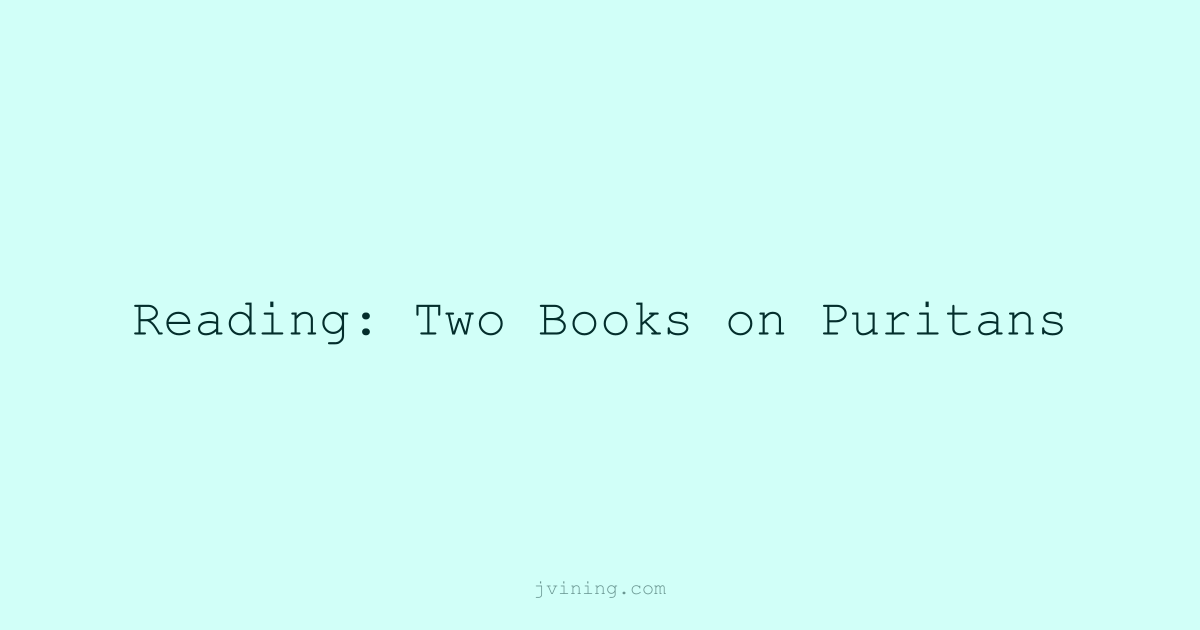
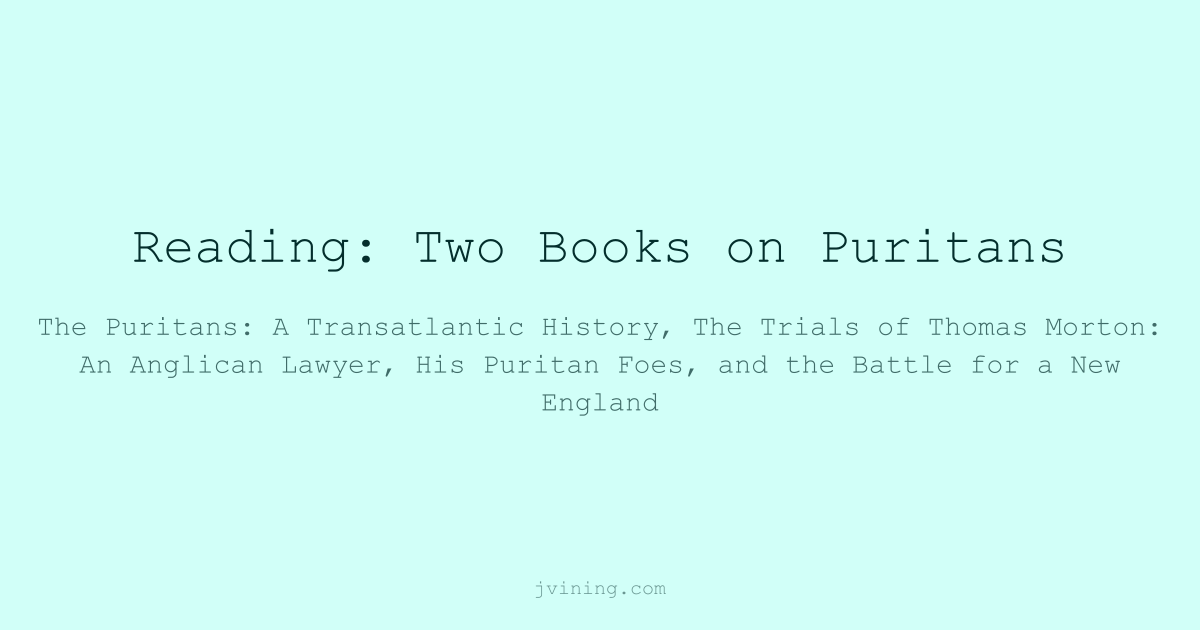
Update preview images for reading notes

diff --git a/generate-og.js b/generate-og.js
@@ -81,14 +81,28 @@ async function generateImage(slug, title, subtitle, outDir) {
   console.log(`  ${slug}.png`);
 }
 
-async function processDir(srcDir, outDir) {
+// Pull the book titles out of a reading entry's "#### Author, *Title*." headings,
+// e.g. "Reading: June, 2025" -> "Essentialism, The House of Morgan, Tinker Tailor Soldier Spy"
+function extractBookTitles(content) {
+  const titles = [];
+  const headingRe = /^#{2,6}\s+.*$/gm;
+  let match;
+  while ((match = headingRe.exec(content)) !== null) {
+    const heading = match[0];
+    const italic = heading.match(/\*([^*]+)\*/);
+    if (italic) titles.push(italic[1].trim());
+  }
+  return titles.join(', ');
+}
+
+async function processDir(srcDir, outDir, { booksAsSubtitle = false } = {}) {
   const files = fs.readdirSync(srcDir).filter(f => f.endsWith('.md'));
   for (const file of files) {
     const raw = fs.readFileSync(path.join(srcDir, file), 'utf8');
-    const { data } = matter(raw);
+    const { data, content } = matter(raw);
     if (!data.title) continue;
     const slug = path.basename(file, '.md');
-    const subtitle = data.subtitle || null;
+    const subtitle = data.subtitle || (booksAsSubtitle ? extractBookTitles(content) : null) || null;
     await generateImage(slug, data.title, subtitle, outDir);
   }
 }
@@ -99,7 +113,7 @@ async function main() {
 
   console.log('Generating OG images...');
   await processDir(path.join(__dirname, '_notes'), outDir);
-  await processDir(path.join(__dirname, '_reading'), outDir);
+  await processDir(path.join(__dirname, '_reading'), outDir, { booksAsSubtitle: true });
   console.log('Done.');
 }
 
